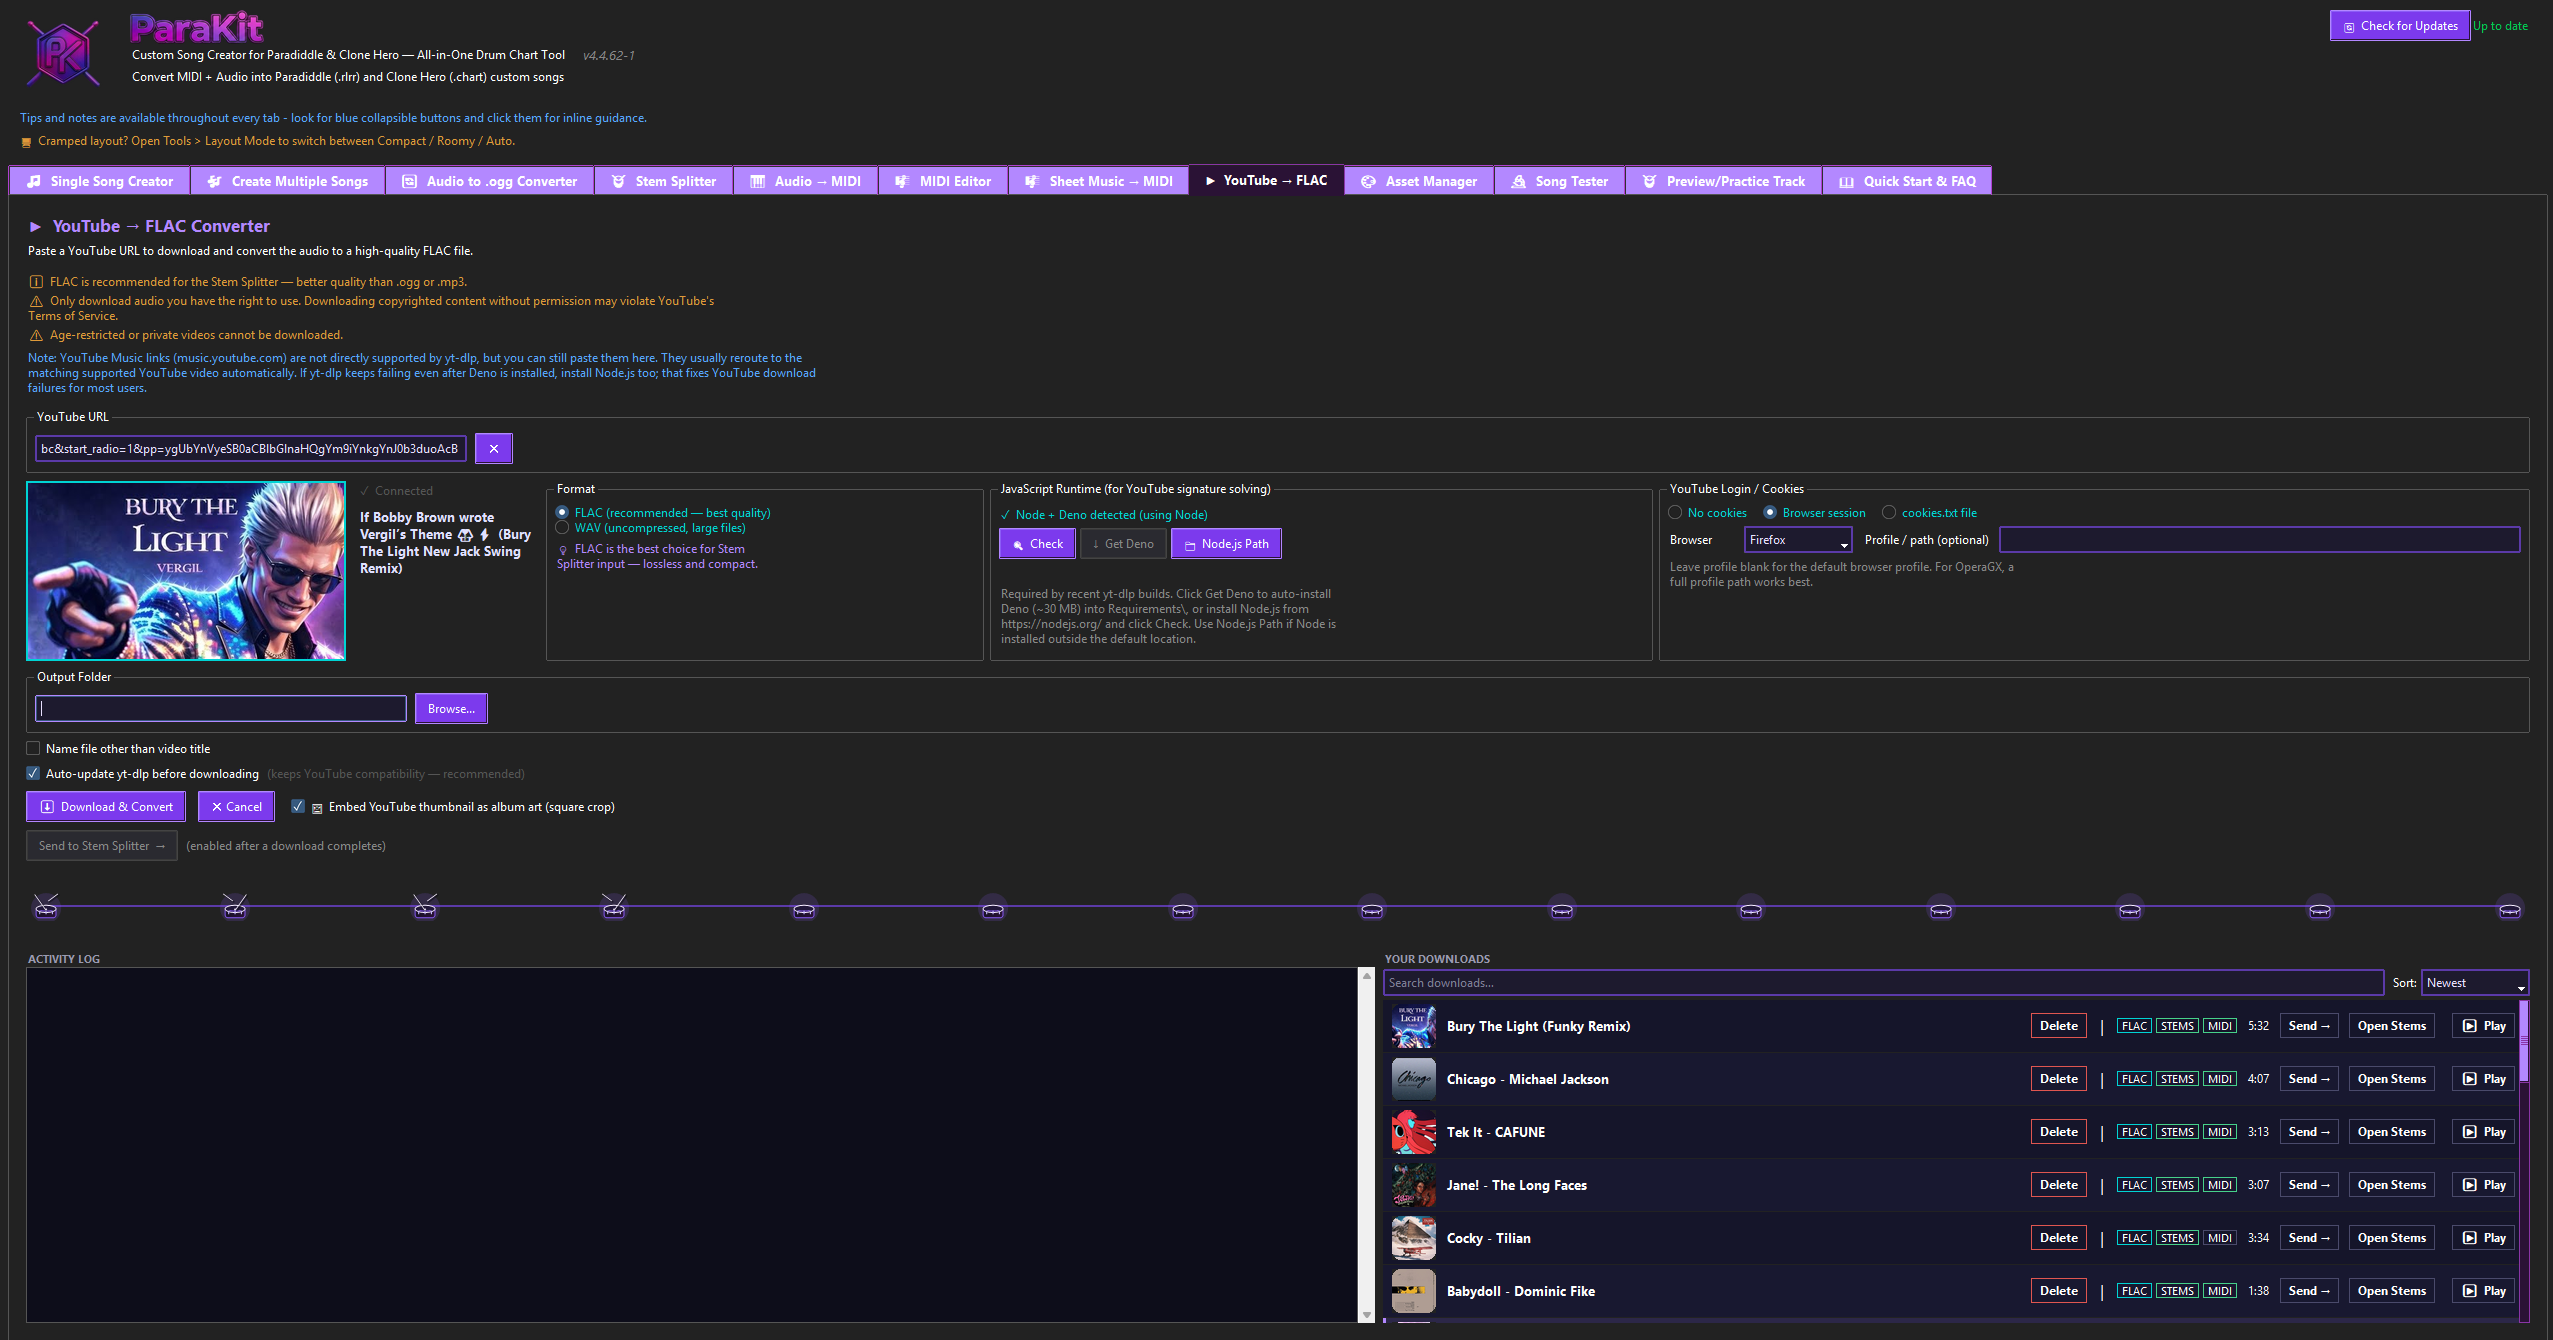
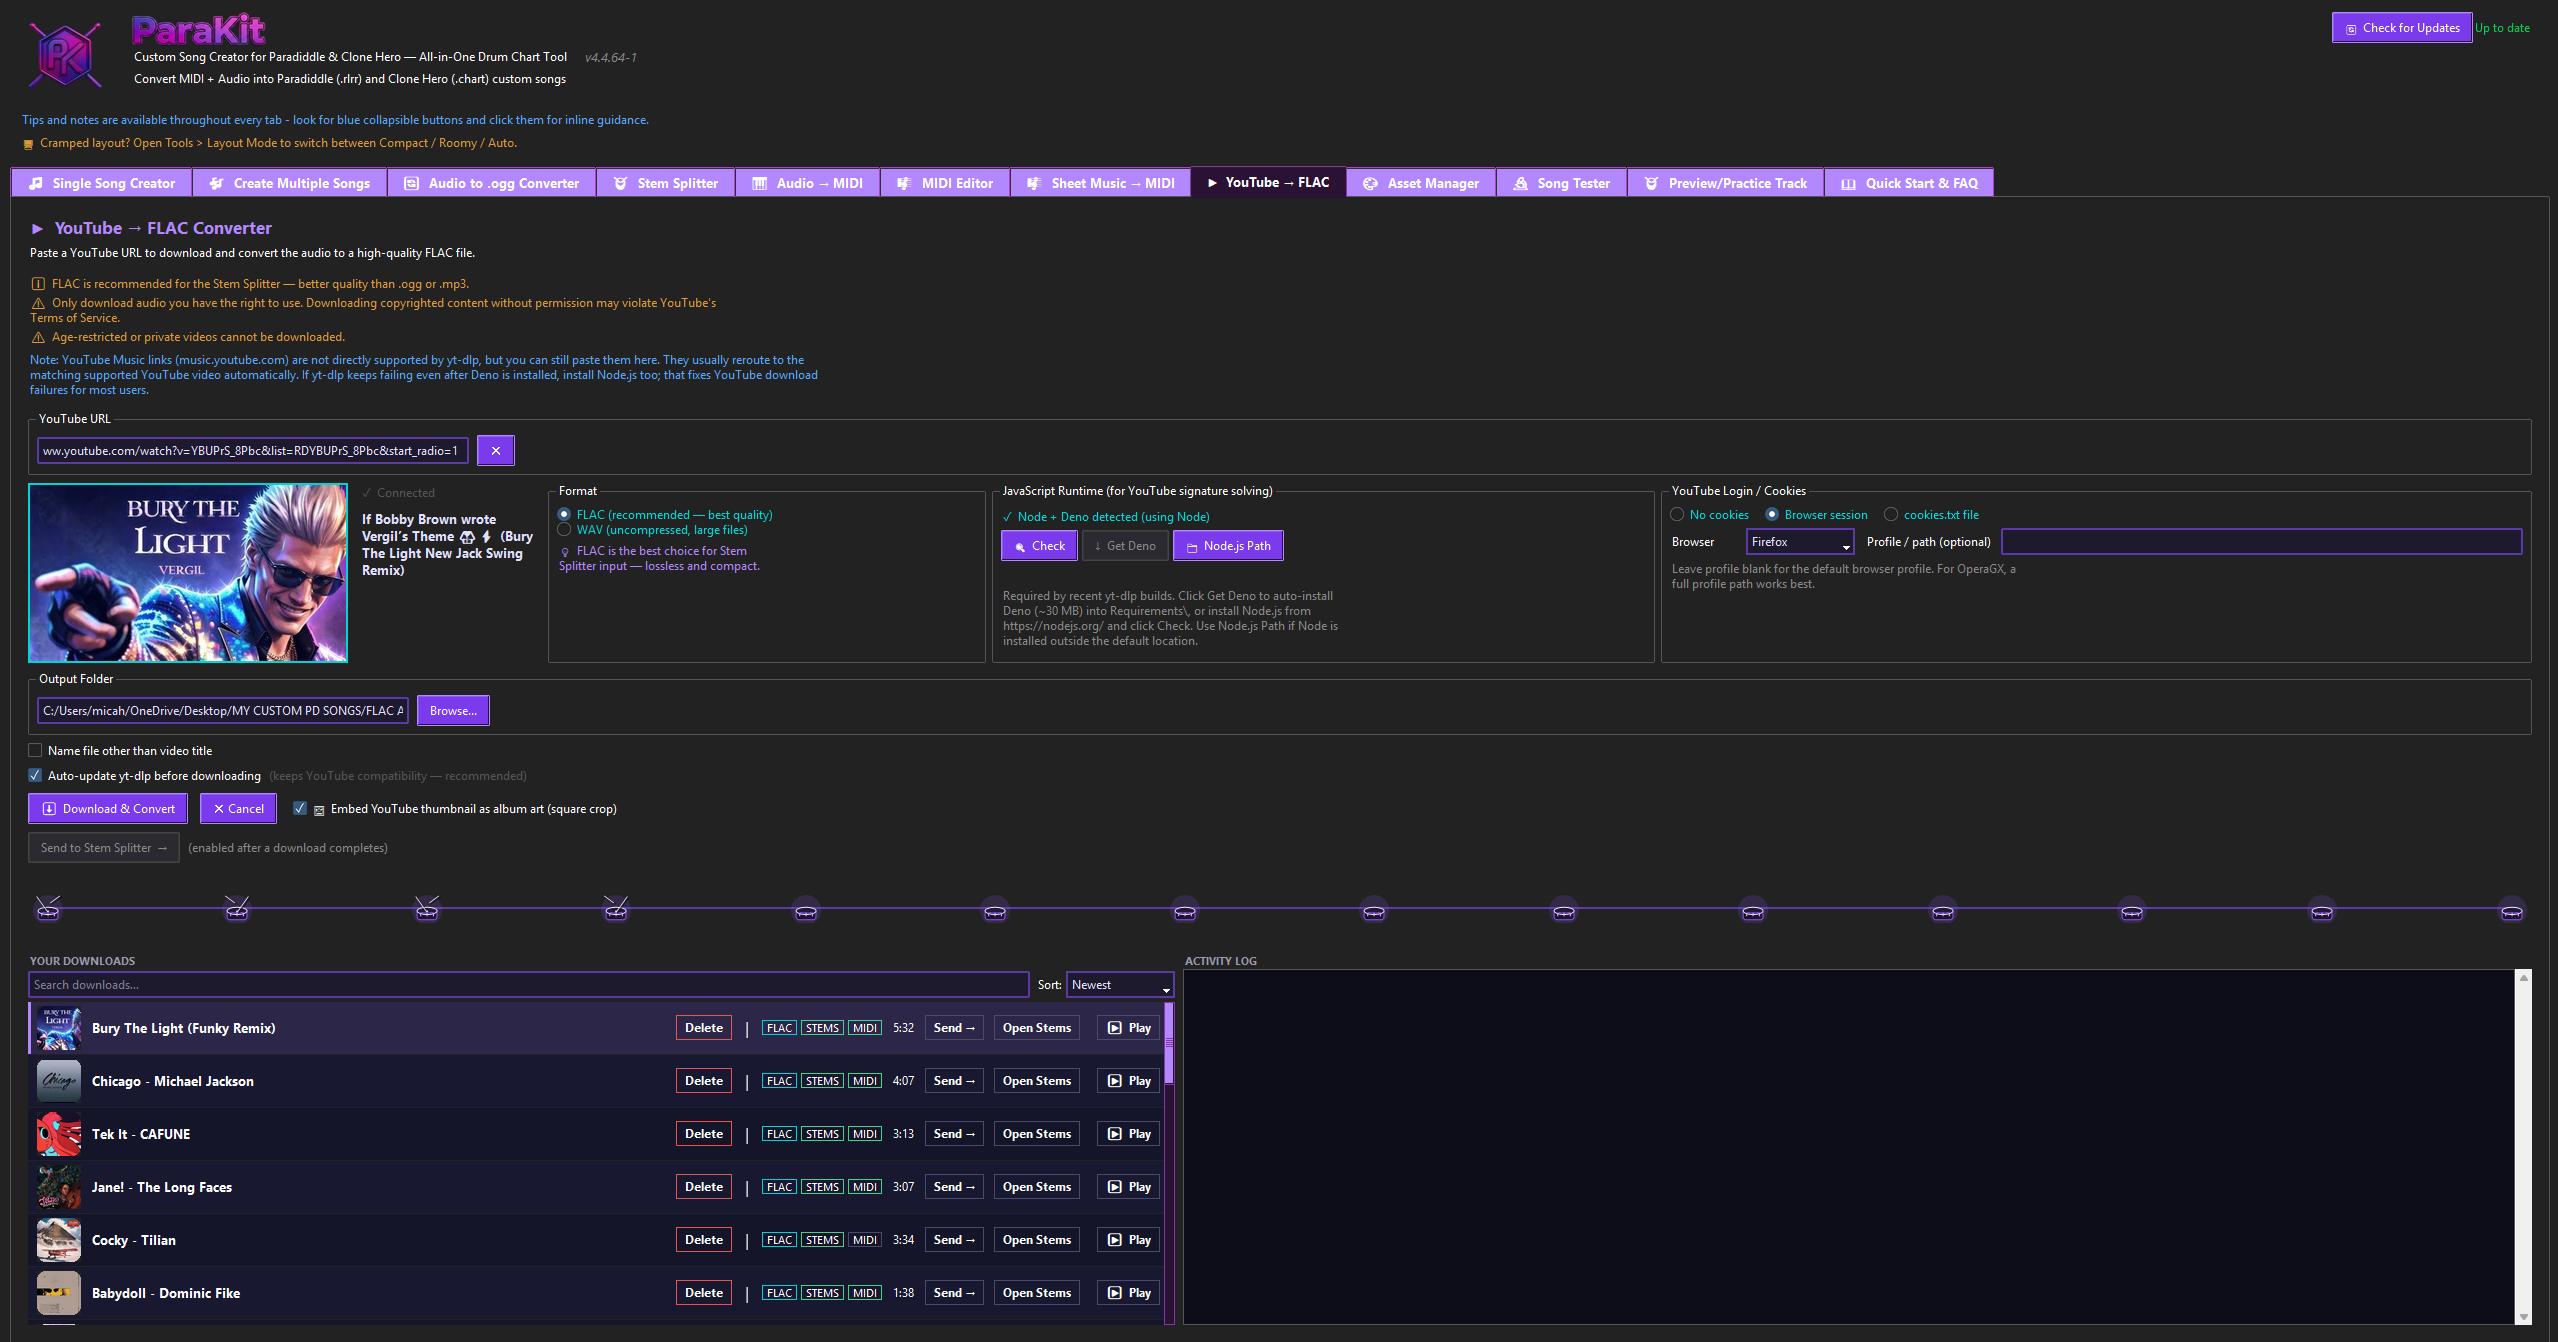
Update YouTube to FLAC screenshot to the v4.4.64-1 layout (library left, log right)
Replaces the pre-swap screenshot (library was on the right) with one matching the shipped v4.4.64-1 layout; cache-bust bumped to v=20260616b.

diff --git a/README.md b/README.md
@@ -151,7 +151,7 @@ in Firefox before I had fixed the MIDI config, see below for details, although C
 <img src="screenshots/app-07-sheet-music-to-midi.png" width="900" alt="Sheet Music to MIDI">
 
 ### 8 · YouTube → FLAC
-<img src="screenshots/app-08-youtube-to-flac.png?v=20260616" width="900" alt="YouTube to FLAC">
+<img src="screenshots/app-08-youtube-to-flac.png?v=20260616b" width="900" alt="YouTube to FLAC">
 
 ### 9 · Asset Manager
 <img src="screenshots/app-09-asset-manager.png?v=20260616" width="900" alt="Asset Manager">